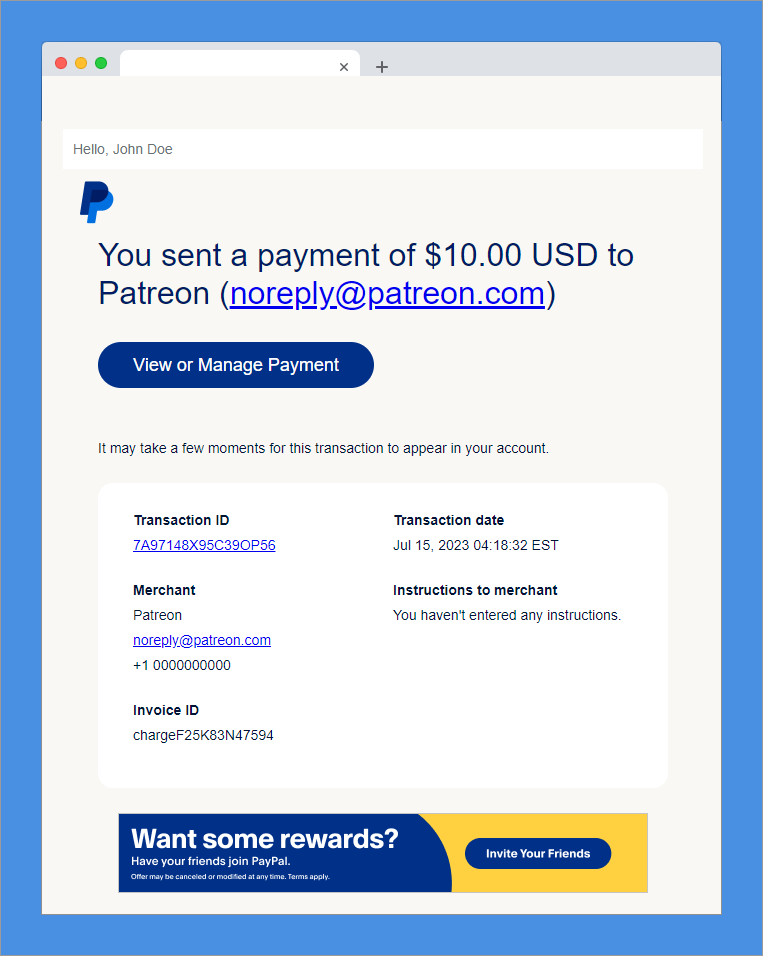
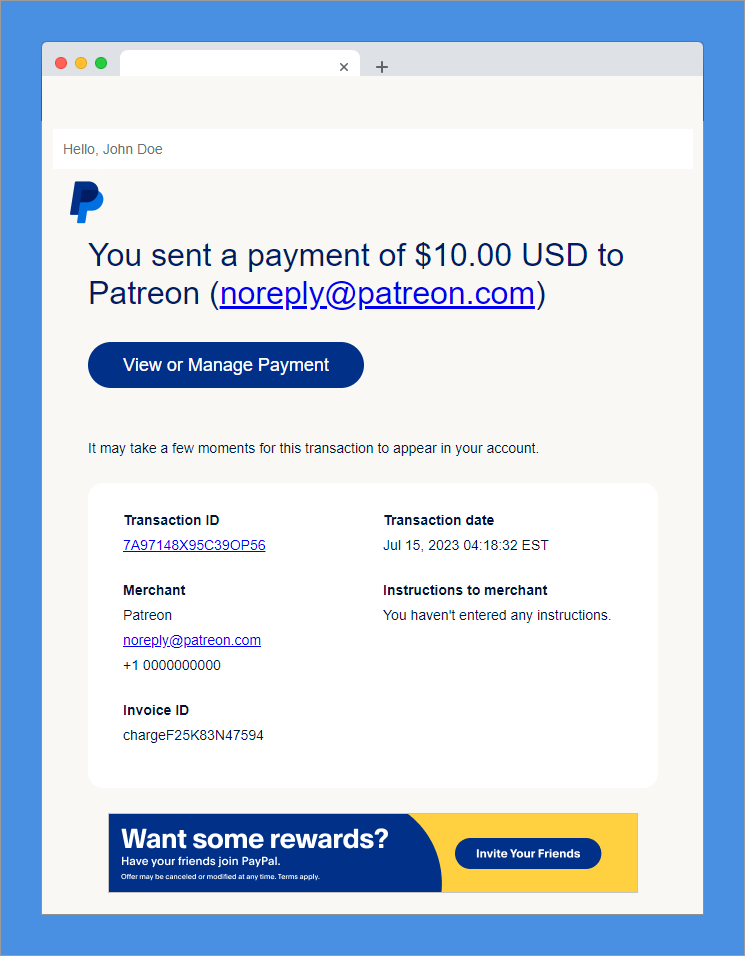
pro

diff --git a/index.html b/index.html
@@ -891,7 +891,7 @@
                         <img src="img/thumbs/42-56.jpg" alt="Thumb Icon" />
                         <div
                           class="main"
-                          data-img-url="img/imtiaz/Dunkin_Promotional_Email_W721_H863.png"
+                          data-img-url="img/imtiaz/Dunkin_Promotional_Email_W721_H863.webp"
                         ></div>
                       </a>
                     </div>
@@ -912,7 +912,7 @@
                         <img src="img/thumbs/42-56.jpg" alt="Thumb Icon" />
                         <div
                           class="main"
-                          data-img-url="img/imtiaz/PayPal_Transactional.png"
+                          data-img-url="img/imtiaz/PayPal_Transactional.webp"
                         ></div>
                       </a>
                     </div>
